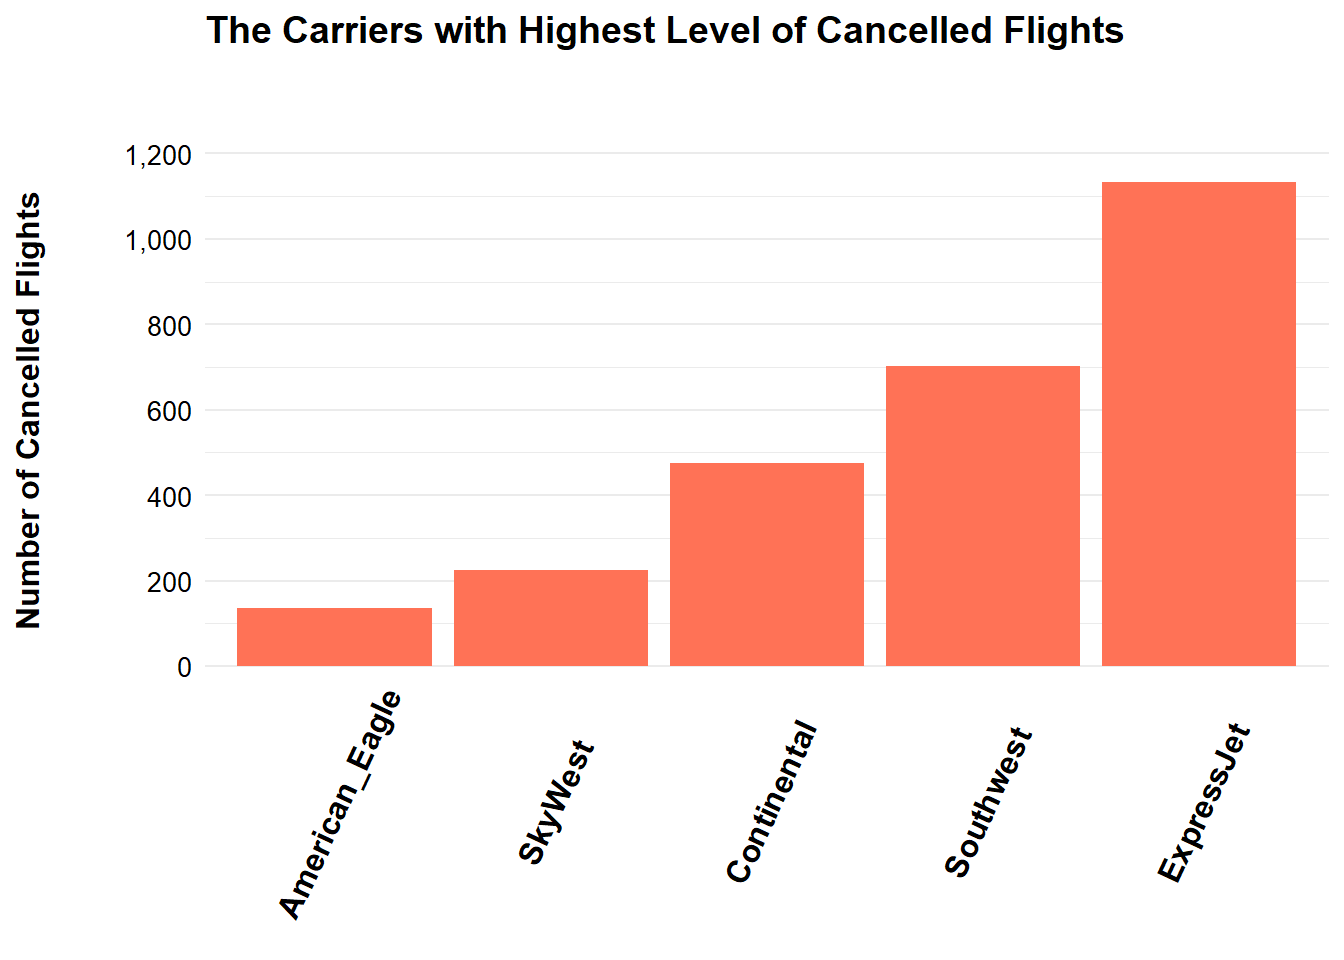
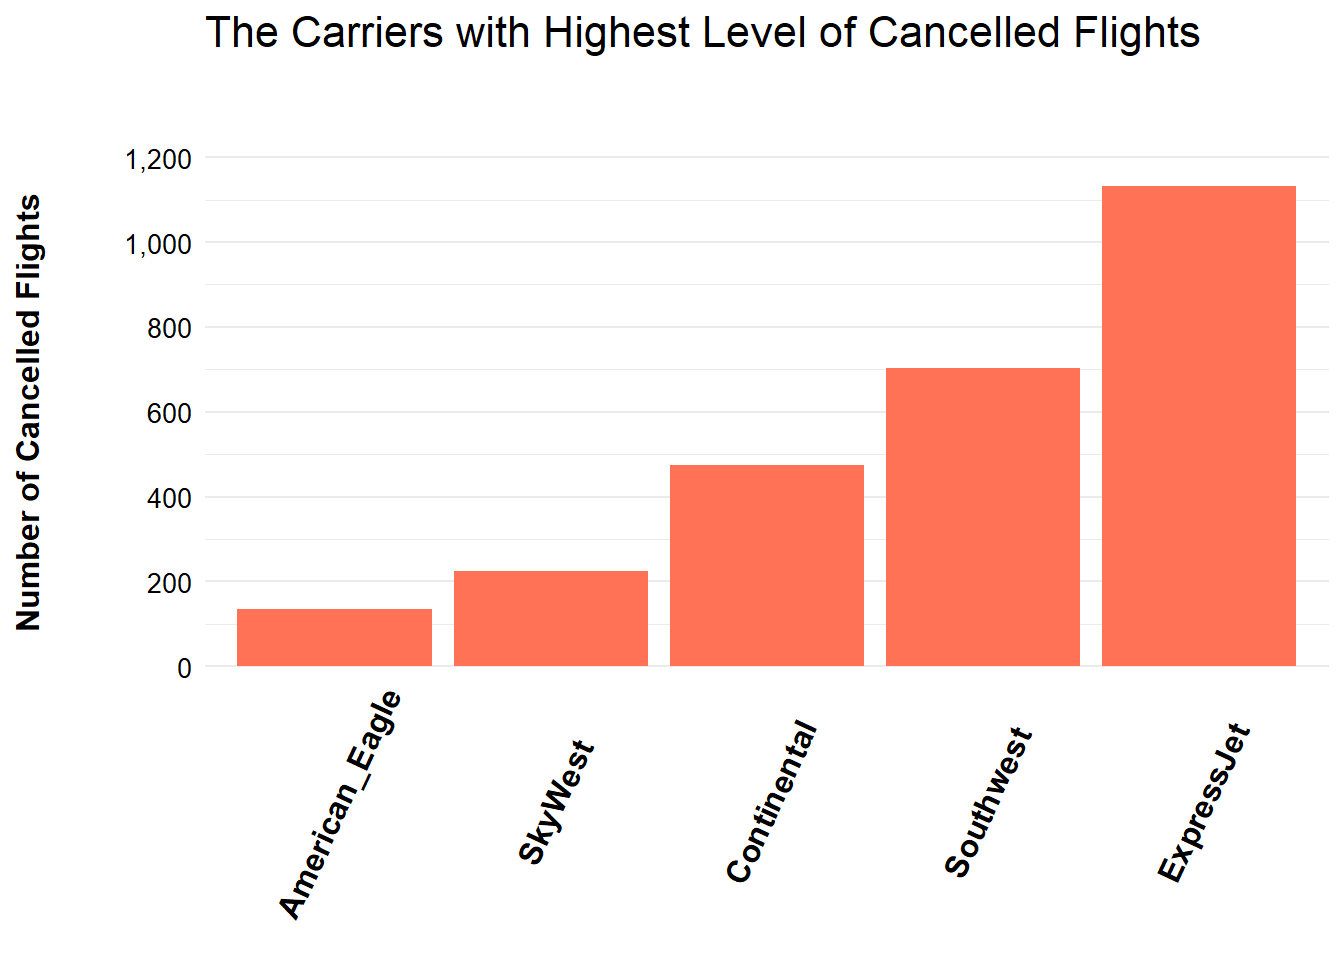
Initial Commit

diff --git a/content/post/2018-11-16-analysis-of-airlines-market-in-usa.html b/content/post/2018-11-16-analysis-of-airlines-market-in-usa.html
@@ -190,7 +190,7 @@ two_largest_daily</code></pre>
     theme(legend.title = element_blank()) + 
     theme(legend.text = element_text(size = 12, colour = &quot;black&quot;, face = &quot;bold&quot;)) +
     labs(title = &quot;The Two Largest Players in the Market&quot;, subtitle = &quot;Daily Flights in a Week&quot;) + 
-    theme(plot.title = element_text(size = 16.5, face = &quot;bold&quot;))</code></pre>
+    theme(plot.title = element_text(size = 15, face = &quot;bold&quot;))</code></pre>
 <p><img src="/post/2018-11-16-analysis-of-airlines-market-in-usa_files/figure-html/unnamed-chunk-7-1.png" width="672" /></p>
 <p style="text-align: justify;">
 <span style="color:#2A3132"><strong>How do ExpressJet and Continental perform daily within one month?</strong>
@@ -343,14 +343,14 @@ two_largest_monthly</code></pre>
   theme(legend.position = &quot;bottom&quot;) +
   theme(legend.text = element_text(size= 12, face = &quot;bold&quot;, colour= &quot;black&quot;)) + 
   theme(legend.title = element_blank()) +
-  labs(title = &quot;The Largest Players in the Market&quot;, subtitle = &quot;Monhtly Flights&quot;) +
+  labs(title = &quot;The Largest Players in the Market&quot;, subtitle = &quot;Monthly Flights&quot;) +
   theme(plot.title = element_text(size = 15, colour = &quot;black&quot;, face = &quot;bold&quot;))</code></pre>
 <p><img src="/post/2018-11-16-analysis-of-airlines-market-in-usa_files/figure-html/unnamed-chunk-11-1.png" width="672" /></p>
 </div>
 <div id="more-insights-ahead" class="section level2">
 <h2>More Insights Ahead!</h2>
 <p style="text-align: justify;">
-Everthing looks good so far. Let’s try now to get some spatial insights by aaking: What is the most active departure airport for each carrier in weekend?
+Everthing looks good so far. Let’s try now to get some spatial insights by aaking: <strong>What is the most active departure airport for each carrier in the weekend?</strong>
 </p>
 <pre class="r"><code>Origin_carr &lt;- hflights %&gt;%
   filter(DayOfWeek %in% c(6, 7)) %&gt;%
@@ -412,7 +412,7 @@ Dest_carr</code></pre>
 ## 14 Alaska             SEA       105     1
 ## 15 Mesa               CLT        31     1</code></pre>
 <p style="text-align: justify;">
-<strong>What is the most active airline routes in the Weekend?</strong>
+<strong>What are the most active airline routes in the weekend?</strong>
 </p>
 <pre class="r"><code>Airline_route &lt;- hflights %&gt;%
   filter(DayOfWeek %in% c(6, 7)) %&gt;%
@@ -627,7 +627,7 @@ Cancelled_Carr</code></pre>
   theme(axis.title.x = element_blank()) + 
   theme(axis.title.y = element_text(size = 12, colour = &quot;black&quot;, face = &quot;bold&quot;, margin = margin(r=30))) +
   labs(title = &quot;The Carriers with Highest Level of Cancelled Flights&quot;) +
-  theme(plot.title = element_text(size = 14, face = &quot;bold&quot;, colour = &quot;black&quot;, margin = margin(0,0,30,0)))</code></pre>
+  theme(plot.title = element_text(size = 16, colour = &quot;black&quot;, margin = margin(0,0,30,0)))</code></pre>
 <p><img src="/post/2018-11-16-analysis-of-airlines-market-in-usa_files/figure-html/unnamed-chunk-22-1.png" width="672" /></p>
 <p style="text-align: justify;">
 <strong>Which carrier has the highest average of arrival delay?</strong>
@@ -670,7 +670,7 @@ Carrier_arrdelay</code></pre>
   theme(axis.title.y = element_text(size = 12, face = &quot;bold&quot;, colour = &quot;black&quot;, margin = margin(r=30))) +
   theme(panel.grid.major.x = element_blank()) +
   labs(title = &quot;The Average of Arrival Delay for each Carrier&quot;, subtitle = &quot;Minutes&quot;) +
-  theme(plot.title = element_text(size = 16, face = &quot;bold&quot;, colour = &quot;black&quot;))</code></pre>
+  theme(plot.title = element_text(size = 16, colour = &quot;black&quot;))</code></pre>
 <p><img src="/post/2018-11-16-analysis-of-airlines-market-in-usa_files/figure-html/unnamed-chunk-24-1.png" width="672" /></p>
 <p style="text-align: justify;">
 <strong>Which carrier has the highest average of departure delay?</strong>
@@ -713,7 +713,7 @@ Carrier_depdelay</code></pre>
   theme(axis.title.y = element_text(size = 12, face = &quot;bold&quot;, colour = &quot;black&quot;, margin = margin(r=30))) +
   theme(panel.grid.major.x = element_blank()) +
   labs(title = &quot;The Average of Departure Delay for each Carrier&quot;, subtitle = &quot;Minutes&quot;) +
-  theme(plot.title = element_text(size = 16, face = &quot;bold&quot;, colour = &quot;black&quot;))</code></pre>
+  theme(plot.title = element_text(size = 16, colour = &quot;black&quot;))</code></pre>
 <p><img src="/post/2018-11-16-analysis-of-airlines-market-in-usa_files/figure-html/unnamed-chunk-26-1.png" width="672" /></p>
 <div id="conclusion1" class="section level3">
 <h3>Conclusion1:</h3>

diff --git a/public/post/analysis-of-airlines-market-in-usa/index.html b/public/post/analysis-of-airlines-market-in-usa/index.html
@@ -263,7 +263,7 @@ two_largest_daily</code></pre>
     theme(legend.title = element_blank()) + 
     theme(legend.text = element_text(size = 12, colour = &quot;black&quot;, face = &quot;bold&quot;)) +
     labs(title = &quot;The Two Largest Players in the Market&quot;, subtitle = &quot;Daily Flights in a Week&quot;) + 
-    theme(plot.title = element_text(size = 16.5, face = &quot;bold&quot;))</code></pre>
+    theme(plot.title = element_text(size = 15, face = &quot;bold&quot;))</code></pre>
 <p><img src="/post/2018-11-16-analysis-of-airlines-market-in-usa_files/figure-html/unnamed-chunk-7-1.png" width="672" /></p>
 <p style="text-align: justify;">
 <span style="color:#2A3132"><strong>How do ExpressJet and Continental perform daily within one month?</strong>
@@ -416,14 +416,14 @@ two_largest_monthly</code></pre>
   theme(legend.position = &quot;bottom&quot;) +
   theme(legend.text = element_text(size= 12, face = &quot;bold&quot;, colour= &quot;black&quot;)) + 
   theme(legend.title = element_blank()) +
-  labs(title = &quot;The Largest Players in the Market&quot;, subtitle = &quot;Monhtly Flights&quot;) +
+  labs(title = &quot;The Largest Players in the Market&quot;, subtitle = &quot;Monthly Flights&quot;) +
   theme(plot.title = element_text(size = 15, colour = &quot;black&quot;, face = &quot;bold&quot;))</code></pre>
 <p><img src="/post/2018-11-16-analysis-of-airlines-market-in-usa_files/figure-html/unnamed-chunk-11-1.png" width="672" /></p>
 </div>
 <div id="more-insights-ahead" class="section level2">
 <h2>More Insights Ahead!</h2>
 <p style="text-align: justify;">
-Everthing looks good so far. Let’s try now to get some spatial insights by aaking: What is the most active departure airport for each carrier in weekend?
+Everthing looks good so far. Let’s try now to get some spatial insights by aaking: <strong>What is the most active departure airport for each carrier in the weekend?</strong>
 </p>
 <pre class="r"><code>Origin_carr &lt;- hflights %&gt;%
   filter(DayOfWeek %in% c(6, 7)) %&gt;%
@@ -485,7 +485,7 @@ Dest_carr</code></pre>
 ## 14 Alaska             SEA       105     1
 ## 15 Mesa               CLT        31     1</code></pre>
 <p style="text-align: justify;">
-<strong>What is the most active airline routes in the Weekend?</strong>
+<strong>What are the most active airline routes in the weekend?</strong>
 </p>
 <pre class="r"><code>Airline_route &lt;- hflights %&gt;%
   filter(DayOfWeek %in% c(6, 7)) %&gt;%
@@ -700,7 +700,7 @@ Cancelled_Carr</code></pre>
   theme(axis.title.x = element_blank()) + 
   theme(axis.title.y = element_text(size = 12, colour = &quot;black&quot;, face = &quot;bold&quot;, margin = margin(r=30))) +
   labs(title = &quot;The Carriers with Highest Level of Cancelled Flights&quot;) +
-  theme(plot.title = element_text(size = 14, face = &quot;bold&quot;, colour = &quot;black&quot;, margin = margin(0,0,30,0)))</code></pre>
+  theme(plot.title = element_text(size = 16, colour = &quot;black&quot;, margin = margin(0,0,30,0)))</code></pre>
 <p><img src="/post/2018-11-16-analysis-of-airlines-market-in-usa_files/figure-html/unnamed-chunk-22-1.png" width="672" /></p>
 <p style="text-align: justify;">
 <strong>Which carrier has the highest average of arrival delay?</strong>
@@ -743,7 +743,7 @@ Carrier_arrdelay</code></pre>
   theme(axis.title.y = element_text(size = 12, face = &quot;bold&quot;, colour = &quot;black&quot;, margin = margin(r=30))) +
   theme(panel.grid.major.x = element_blank()) +
   labs(title = &quot;The Average of Arrival Delay for each Carrier&quot;, subtitle = &quot;Minutes&quot;) +
-  theme(plot.title = element_text(size = 16, face = &quot;bold&quot;, colour = &quot;black&quot;))</code></pre>
+  theme(plot.title = element_text(size = 16, colour = &quot;black&quot;))</code></pre>
 <p><img src="/post/2018-11-16-analysis-of-airlines-market-in-usa_files/figure-html/unnamed-chunk-24-1.png" width="672" /></p>
 <p style="text-align: justify;">
 <strong>Which carrier has the highest average of departure delay?</strong>
@@ -786,7 +786,7 @@ Carrier_depdelay</code></pre>
   theme(axis.title.y = element_text(size = 12, face = &quot;bold&quot;, colour = &quot;black&quot;, margin = margin(r=30))) +
   theme(panel.grid.major.x = element_blank()) +
   labs(title = &quot;The Average of Departure Delay for each Carrier&quot;, subtitle = &quot;Minutes&quot;) +
-  theme(plot.title = element_text(size = 16, face = &quot;bold&quot;, colour = &quot;black&quot;))</code></pre>
+  theme(plot.title = element_text(size = 16, colour = &quot;black&quot;))</code></pre>
 <p><img src="/post/2018-11-16-analysis-of-airlines-market-in-usa_files/figure-html/unnamed-chunk-26-1.png" width="672" /></p>
 <div id="conclusion1" class="section level3">
 <h3>Conclusion1:</h3>
